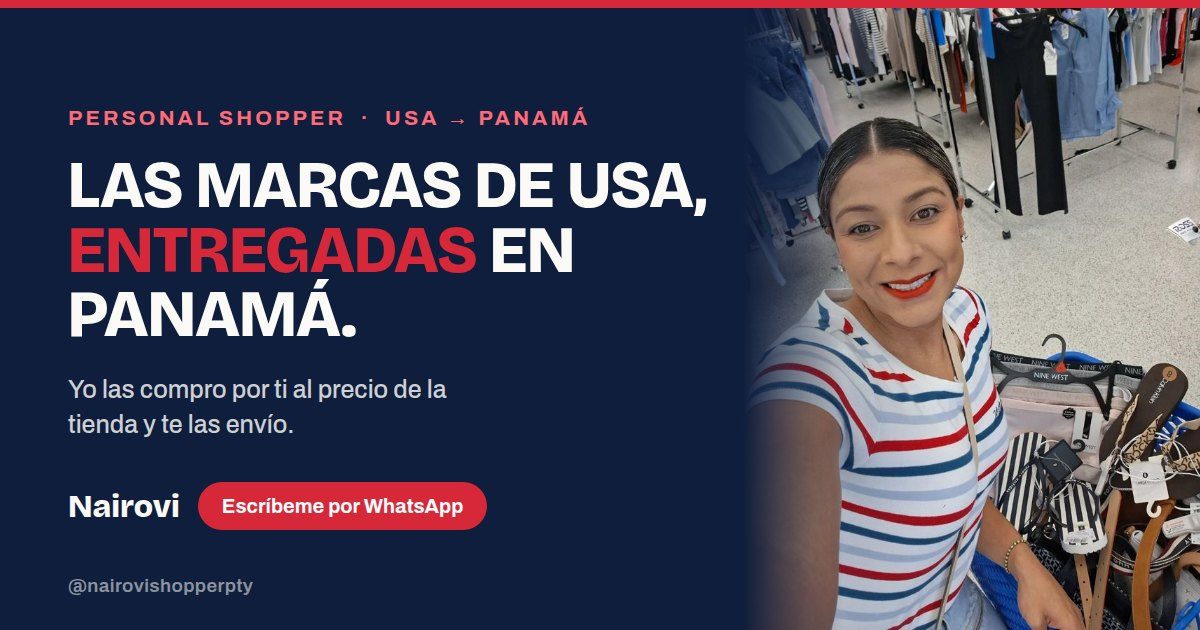
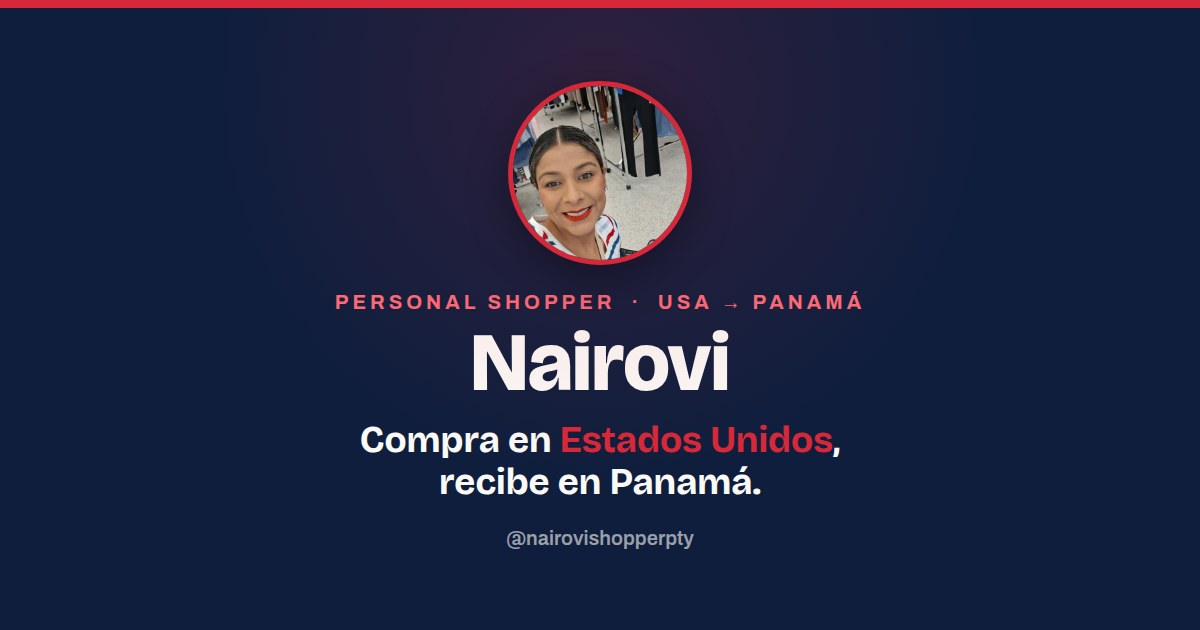
Redesign OG preview: centered, crop-safe, less text (better WhatsApp thumbnail)

diff --git a/index.html b/index.html
@@ -613,8 +613,8 @@ footer{background:var(--navy-deep);color:rgba(251,250,247,.7);padding:clamp(48px
   <meta property="og:title" content="Nairovi · Compra en USA, recibe en Panamá">
   <meta property="og:description" content="Marcas originales de EE.UU. al precio de la tienda. Yo las compro por ti y te las envío a Panamá.">
   <meta property="og:url" content="https://jojomunoz.github.io/nairovi/">
-  <meta property="og:image" content="https://jojomunoz.github.io/nairovi/og-image.jpg">
-  <meta property="og:image:secure_url" content="https://jojomunoz.github.io/nairovi/og-image.jpg">
+  <meta property="og:image" content="https://jojomunoz.github.io/nairovi/og-image.jpg?v=2">
+  <meta property="og:image:secure_url" content="https://jojomunoz.github.io/nairovi/og-image.jpg?v=2">
   <meta property="og:image:type" content="image/jpeg">
   <meta property="og:image:width" content="1200">
   <meta property="og:image:height" content="630">
@@ -623,7 +623,7 @@ footer{background:var(--navy-deep);color:rgba(251,250,247,.7);padding:clamp(48px
   <meta name="twitter:card" content="summary_large_image">
   <meta name="twitter:title" content="Nairovi · Compra en USA, recibe en Panamá">
   <meta name="twitter:description" content="Marcas originales de EE.UU. al precio de la tienda. Yo las compro por ti y te las envío a Panamá.">
-  <meta name="twitter:image" content="https://jojomunoz.github.io/nairovi/og-image.jpg">
+  <meta name="twitter:image" content="https://jojomunoz.github.io/nairovi/og-image.jpg?v=2">
 </head>
 <body>
 
